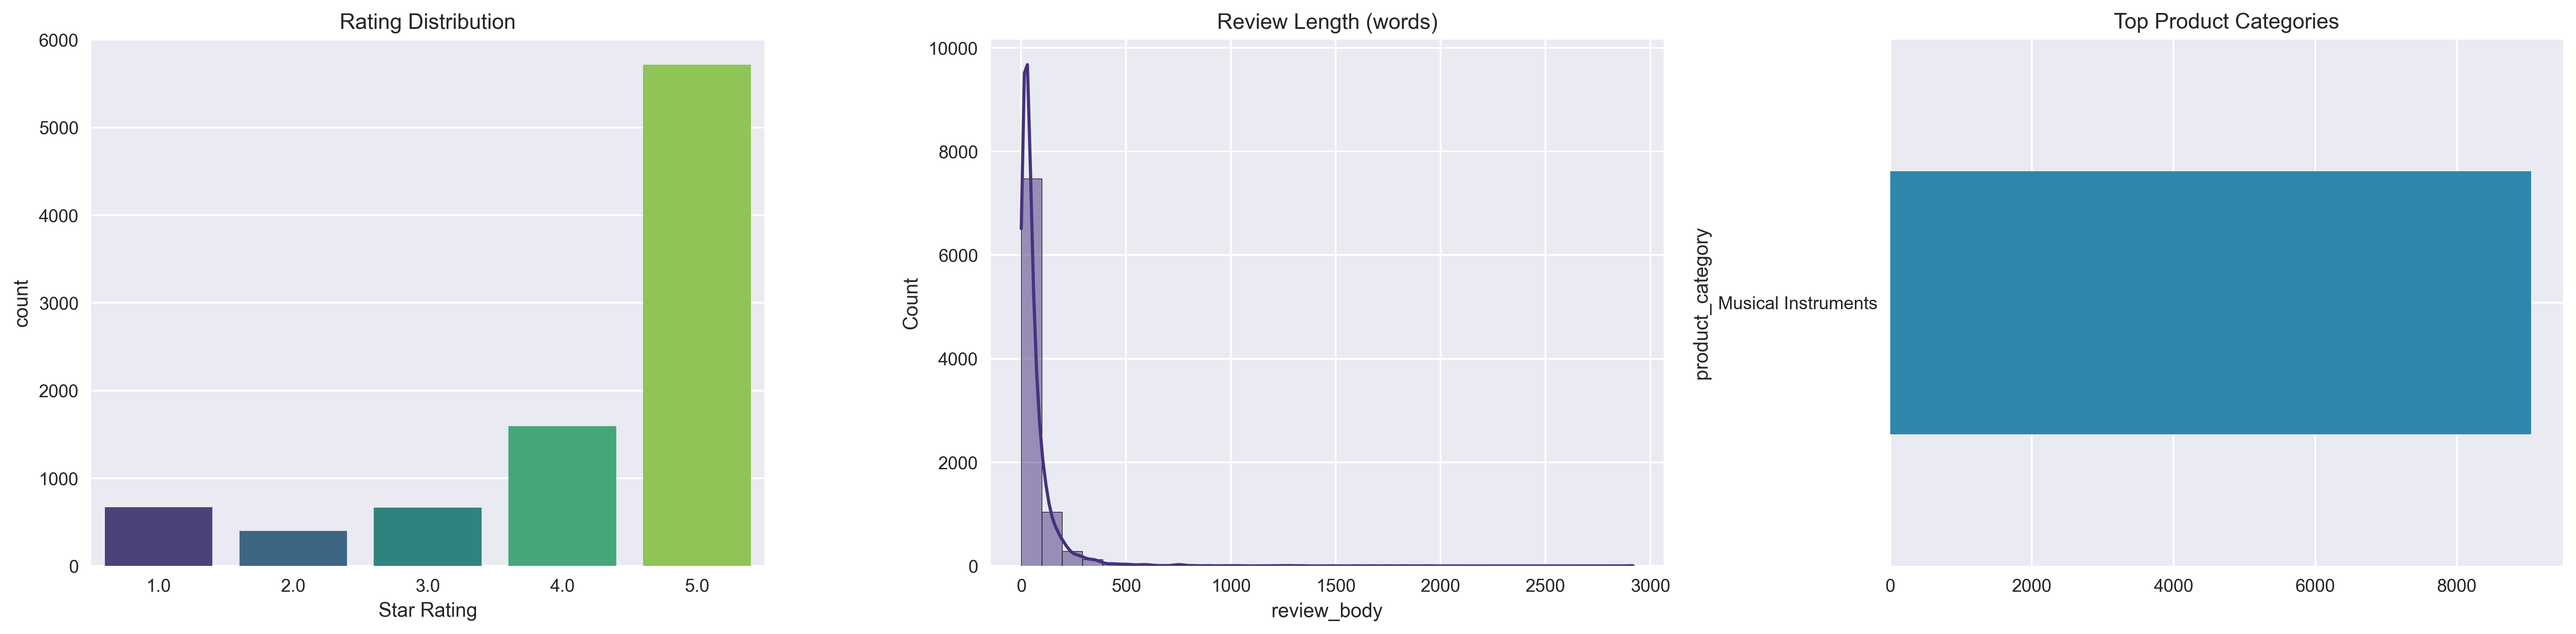
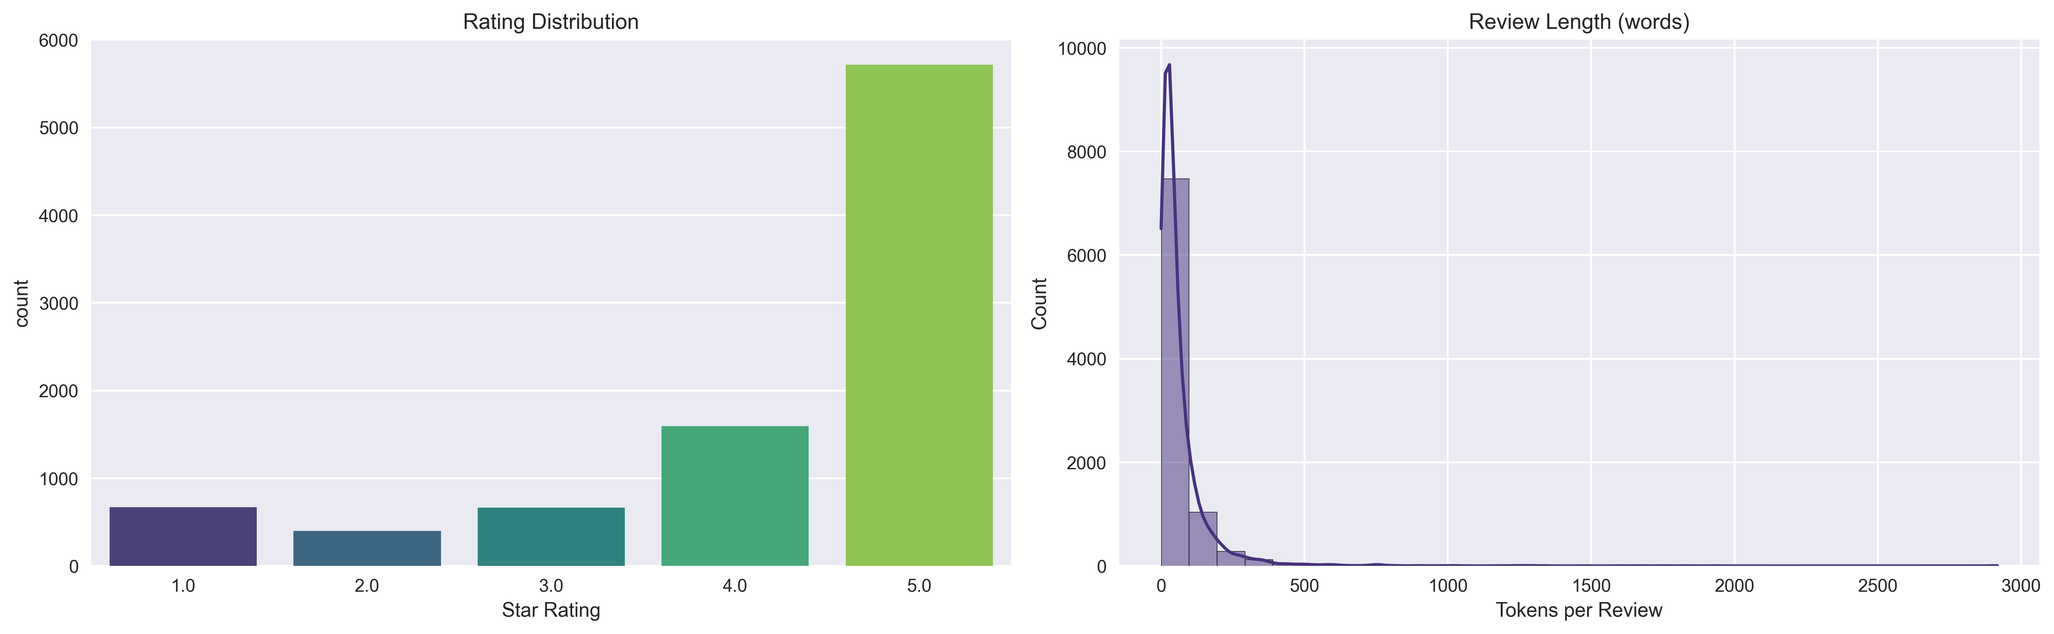
work3

diff --git a/6-buai446-capstone/buai446-capstone.py b/6-buai446-capstone/buai446-capstone.py
@@ -176,7 +176,7 @@ display(missing_counts.head(10))
 # A handful of high-level plots to understand distributions and category coverage.
 
 # %%
-fig, axes = plt.subplots(1, 3, figsize=(20, 5))
+fig, axes = plt.subplots(1, 2, figsize=(16, 5))
 
 sns.countplot(data=raw_df, x="star_rating", palette="viridis", ax=axes[0])
 axes[0].set_title("Rating Distribution")
@@ -185,16 +185,7 @@ axes[0].set_xlabel("Star Rating")
 review_lengths = raw_df["review_body"].fillna("").str.split().map(len)
 sns.histplot(review_lengths, bins=30, kde=True, ax=axes[1])
 axes[1].set_title("Review Length (words)")
-
-top_categories = (
-    raw_df["product_category"]
-    .fillna("Unknown")
-    .value_counts()
-    .head(10)
-    .sort_values(ascending=True)
-)
-top_categories.plot(kind="barh", ax=axes[2], color="#2E86AB")
-axes[2].set_title("Top Product Categories")
+axes[1].set_xlabel("Tokens per Review")
 
 plt.tight_layout()
 save_figure(fig, "eda_overview.png")
@@ -354,6 +345,7 @@ product_profiles = (
 product_profiles["tokens"] = product_profiles["product_id"].map(product_tokens_series)
 product_profiles["combined_text"] = product_profiles["tokens"].apply(lambda toks: " ".join(toks))
 product_profiles["combined_text"] = product_profiles["combined_text"].fillna("")
+product_lookup = product_profiles.set_index("product_id")
 
 print(f"Products prepared for NLP: {len(product_profiles)}")
 
@@ -516,6 +508,18 @@ def recommend_popular(top_n: int = TOP_K) -> List[str]:
     return popularity_ranking[:top_n]
 
 
+def select_demo_user(min_history: int = 3) -> str | None:
+    """Pick a user with enough history to showcase recommendations."""
+    candidates = [
+        user_id for user_id, items in train_user_hist.items() if len(items) >= min_history
+    ]
+    if not candidates:
+        candidates = list(train_user_hist.keys())
+    if not candidates:
+        return None
+    return random.choice(candidates)
+
+
 def content_scores_for_user(user_id: str) -> Dict[str, float]:
     history = train_df[train_df["customer_id"] == user_id]
     if history.empty:
@@ -650,27 +654,56 @@ display(ranking_eval)
 # ## 12. Example Recommendations
 
 # %%
-sample_user = random.choice(eval_users) if eval_users else None
-if sample_user:
-    print(f"Sample user: {sample_user}")
-    print("\nPreviously purchased (train set):")
-    display(train_df[train_df["customer_id"] == sample_user].head())
-
-    print("\nHybrid recommendations:")
-    hybrid_recs = recommend_hybrid(sample_user, 5)
-    display(
-        product_profiles[product_profiles["product_id"].isin(hybrid_recs)][
-            ["product_id", "product_title", "avg_rating", "rating_count"]
-        ]
+demo_user = select_demo_user()
+if demo_user:
+    print(f"Demo user selected for walkthrough: {demo_user}")
+    user_history = (
+        train_df[train_df["customer_id"] == demo_user]
+        .sort_values("star_rating", ascending=False)
+        .head(10)
     )
+    print("\nItems previously rated by this user:")
+    display(user_history)
+
+    recommendation_sets = {
+        "Content-Based": recommend_content(demo_user, 5),
+        "SVD CF": recommend_svd(demo_user, 5),
+        "Hybrid": recommend_hybrid(demo_user, 5),
+    }
+
+    for label, rec_ids in recommendation_sets.items():
+        print(f"\nTop {len(rec_ids)} {label} recommendations:")
+        rec_df = (
+            product_lookup.loc[[pid for pid in rec_ids if pid in product_lookup.index], :]
+            .reset_index()
+            .rename(columns={"index": "product_id"})
+        )
+        display(rec_df[["product_title", "avg_rating", "rating_count"]])
+
+    hybrid_score_map = hybrid_scores(demo_user)
+    hybrid_recs = recommendation_sets["Hybrid"]
+    hybrid_scores_series = pd.Series(
+        {pid: hybrid_score_map.get(pid, 0.0) for pid in hybrid_recs}
+    ).sort_values(ascending=True)
+    hybrid_titles = [
+        product_lookup.loc[pid, "product_title"] if pid in product_lookup.index else pid
+        for pid in hybrid_scores_series.index
+    ]
+
+    fig, ax = plt.subplots(figsize=(8, 4))
+    ax.barh(hybrid_titles, hybrid_scores_series.values, color="#6C8CD5")
+    ax.set_title("Hybrid recommender scores for demo user")
+    ax.set_xlabel("Blended relevance score")
+    plt.tight_layout()
+    save_figure(fig, f"hybrid_recs_user_{demo_user}.png")
+    plt.show()
 
 # %% [markdown]
 # ## 13. Visualization Bundle
 # 
 # Generate publication-ready visuals (all saved to `figures/`):
 # - Review sentiment vs. verified rate
-# - Heatmap of rating counts
-# - Static category-volume bar chart
+# - (Earlier sections) EDA overview, sentiment vs. rating, and hybrid recommendation spotlight
 
 # %%
 viz_df = df.copy()
@@ -681,50 +714,6 @@ ax.set_title("Sentiment distribution by Verified Purchase flag")
 ax.set_xlabel("Verified Purchase (0 = N, 1 = Y)")
 plt.tight_layout()
 save_figure(fig, "sentiment_by_verified.png")
-plt.show()
-
-pivot_table = (
-    viz_df.pivot_table(
-        index="product_category",
-        columns="star_rating",
-        values="review_id",
-        aggfunc="count",
-    )
-    .fillna(0)
-    .sort_values(by=5.0, ascending=False)
-    .head(15)
-)
-
-fig, ax = plt.subplots(figsize=(10, 6))
-sns.heatmap(pivot_table, cmap="viridis", ax=ax)
-ax.set_title("Top Categories vs. Rating Counts")
-plt.tight_layout()
-save_figure(fig, "category_rating_heatmap.png")
-plt.show()
-
-category_summary = (
-    viz_df.groupby("product_category")["review_id"]
-    .count()
-    .reset_index()
-    .rename(columns={"review_id": "review_volume"})
-    .sort_values("review_volume", ascending=False)
-    .head(20)
-)
-
-fig, ax = plt.subplots(figsize=(10, 5))
-sns.barplot(
-    data=category_summary,
-    x="product_category",
-    y="review_volume",
-    ax=ax,
-    palette="viridis",
-)
-ax.set_title("Top Product Categories by Review Volume")
-ax.set_xlabel("Product Category")
-ax.set_ylabel("Review Count")
-plt.xticks(rotation=45, ha="right")
-plt.tight_layout()
-save_figure(fig, "top_categories_bar.png")
 plt.show()
 
 # %% [markdown]
